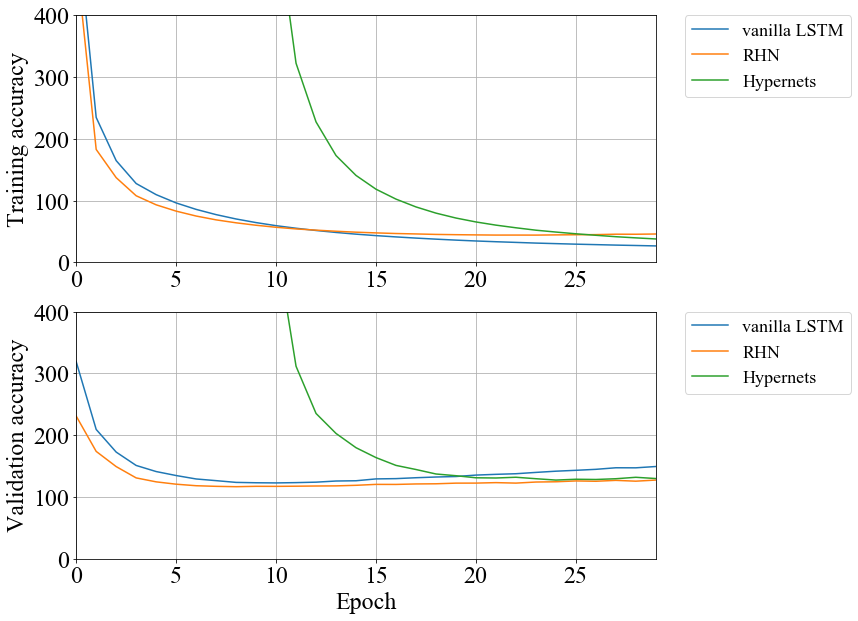
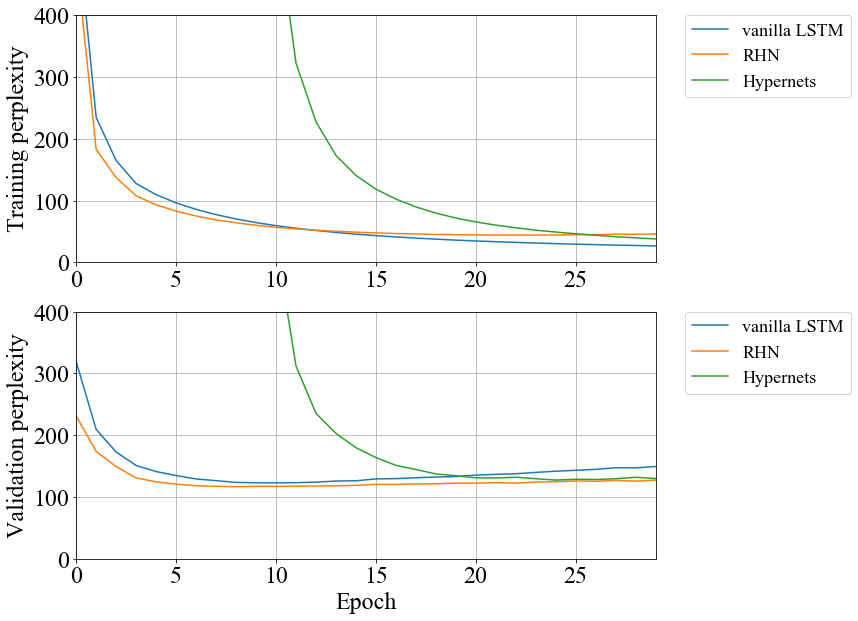
readme

Changed region(s): [[0.0, 0.5507, 0.0303, 0.8567], [0.0, 0.0612, 0.0303, 0.3671]]

diff --git a/README.md b/README.md
@@ -59,7 +59,7 @@ The result on PTB is summarized as below.
 
 <p align="center">
   <img src="./img/perplexity.png" width="900">
-  <br><i> Perplexity for each cell. log</i>
+  <br><i> Perplexity for each cell. </i>
 </p>
 
 Here, the data is split into *train*, *validation*, and *test* following [Mikolov](http://www.fit.vutbr.cz/~imikolov/rnnlm/simple-examples.tgz).
